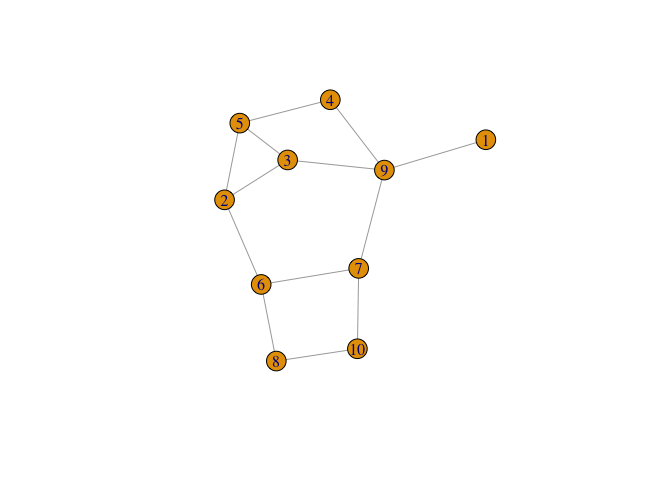
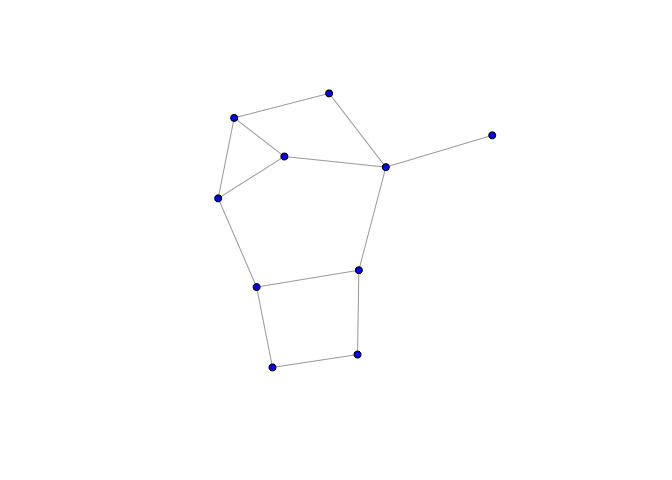
add speed comparison

diff --git a/README.md b/README.md
@@ -6,10 +6,11 @@
 <!-- badges: start -->
 
 [![R-CMD-check](https://github.com/baruuum/igplot/workflows/R-CMD-check/badge.svg)](https://github.com/baruuum/igplot/actions)
+
 <!-- badges: end -->
 
-This is just a simple wraper around the `base::plot` function to create
-network plots faster than `igraph`.
+The `igplot` package offers a simplified version of the `plot.igraph`
+that creates network plots from `igraph` objects.
 
 ## Installation
 
@@ -19,10 +20,19 @@ You can install `igplot` with:
 remotes::install_github("baruuum/igplot")
 ```
 
-## Usage
+## Basic Usage
+
+The package is designed to plot `igraph` objects faster by simplifying
+the `plot.igraph` function. This means that less options are available.
+However, for moderate to large graphs, the `igplot` function should be
+faster than the `plot.igraph` function.
+
+The main function of the `igplot` package is, unsurprisingly, the
+`igplot` function. The basic usage is as follows.
 
 ``` r
 library(igplot)
+#> Loading required package: data.table
 
 # make graph
 set.seed(123)
@@ -30,21 +40,20 @@ g = igraph::erdos.renyi.game(10, .35)
 
 # make plot with igraph package
 set.seed(42)
-tictoc::tic()
-plot(g, layout = igraph::layout_with_fr)
+plot(
+    g, 
+    layout = igraph::layout_with_fr, 
+    vertex.color = "blue", 
+    vertex.label = NA, 
+    vertex.size = 5
+)
 ```
 
 <img src="man/figures/README-example-1.png" width="50%" style="display: block; margin: auto;" />
 
 ``` r
-tictoc::toc()
-#> 0.036 sec elapsed
-```
-
-``` r
 # make same plot with igplot
 set.seed(42)
-tictoc::tic()
 igplot(
     g, 
     layout = "layout_with_fr", 
@@ -55,39 +64,54 @@ igplot(
 )
 ```
 
-<img src="man/figures/README-unnamed-chunk-2-1.png" width="30%" style="display: block; margin: auto;" />
+<img src="man/figures/README-example2-1.png" width="40%" style="display: block; margin: auto;" />
+
+## Speed comaprison
+
+Here’s a short speed comparison between these two functions run on MacOS
+with a 2.4 GHz 8-Core Intel Core i9 processor:
 
 ``` r
-tictoc::toc()
-#> 0.059 sec elapsed
+compare_plot = function(n) {
+    
+    g = igraph::erdos.renyi.game(n, .01)
+    
+    set.seed(111)
+    tictoc::tic()
+    pdf("tmp.pdf", width = 5, height = 5)
+    plot(g, layout = igraph::layout_with_fr) 
+    dev.off()
+    x = tictoc::toc(quiet = TRUE)
+    
+    set.seed(111)
+    tictoc::tic()
+    igplot(g, layout = "layout_with_fr", outfile = "tmp.pdf", width = 5, height = 5)
+    y = tictoc::toc(quiet = TRUE)
+    
+    return(c(igraph = x$toc - x$tic, igplot = y$toc - y$tic))
+    
+}
+
+# create plots of different sizes
+gsize = c(100, 500, 1000, 2500, 5000, 10000, 20000)
+res = sapply(gsize, compare_plot)
+
+# colors
+cols = c(scales::alpha("blue", .6), scales::alpha("red", .6))
+
+# create graph
+par(mfrow = c(1, 1))
+plot(gsize, type = "n", xlim = c(min(gsize), max(gsize)), ylim = c(0, max(res)),
+     xlab = "No. of Vertices", ylab = "Ellapsed Time (seconds)")
+points(gsize, res[1, ], pch = 19, col = cols[1], type = "b")
+points(gsize, res[2, ], pch = 19, col = cols[2], type = "b")
+legend("topleft", c("plot.igraph", "igplot"), lty = 1, col = cols, pch = 19)
 ```
 
-`igplot` should be faster than `plot.igraph` especially for larger
-graphs:
+<img src="man/figures/README-unnamed-chunk-2-1.png" width="50%" style="display: block; margin: auto;" />
 
-``` r
-g = erdos.renyi.game(5000, .05)
-tictoc::tic()
-pdf("images/plot1.pdf", width = 6, height = 5)
-plot(g, layout = layout_with_fr)
-dev.off()
-#> quartz_off_screen 
-#>                 2
-tictoc::toc()
-#> 17.652 sec elapsed
+## Other functionalities
 
-tictoc::tic()
-igplot(
-    g, 
-    layout = "layout_with_fr", 
-    bg = "white", 
-    outfile = "images/plot2.pdf",
-    width = 6,
-    height = 5,
-    return_dat = FALSE
-)
-tictoc::toc()
-#> 5.603 sec elapsed
-```
-
-See vignette for more examples.
+The `igplot` package provides also some functions to rotate graphs in
+order to make them comparable and functions to plot subsets of the
+vertices. See vignette for more examples.
